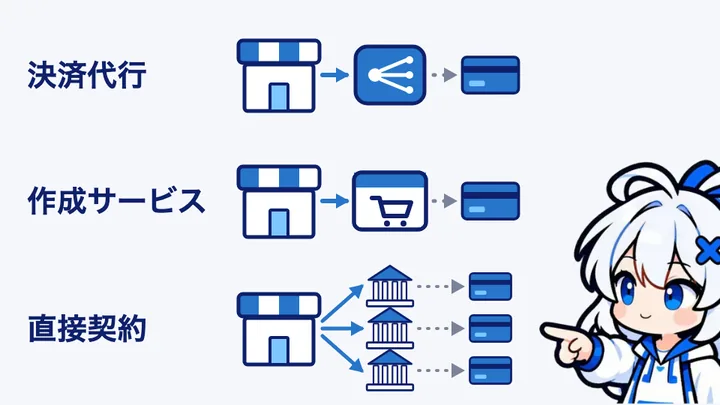
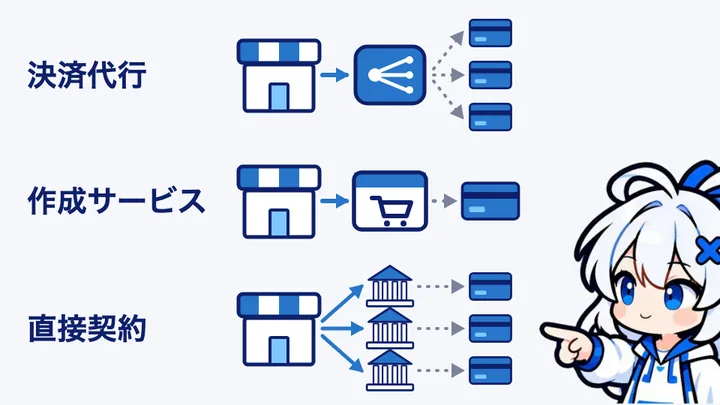
fix(learn): 図の説明の言い過ぎを直し、決済代行の図を 1 契約から 3 ブランドへ枝分かれにする

Changed region(s): [[0.5806, 0.0296, 0.7333, 0.3259]]

diff --git a/learn/chargeback/index.html b/learn/chargeback/index.html
@@ -275,9 +275,9 @@
               <picture>
                 <source type="image/webp" srcset="/assets/learn/chargeback/compare.webp" media="(prefers-reduced-motion: no-preference)" />
                 <source type="image/webp" srcset="/assets/learn/chargeback/compare-still.webp" />
-                <img src="/assets/learn/chargeback/compare.gif" width="720" height="405" alt="カードのチャージバックと、ステーブルコイン決済の違いの図。カードでは、購入者の申し立て（紙の印）で、売上がお店から購入者へ戻ります。ステーブルコイン決済では、確定した送金は取り消せない（錠前の印）ので、申し立てでは戻らず、返金は、お店から購入者へ送り返す形になります。すてぶるちゃんが図を指さしています。" loading="lazy" decoding="async" />
+                <img src="/assets/learn/chargeback/compare.gif" width="720" height="405" alt="カードのチャージバックと、ステーブルコイン決済の違いの図。カードでは、購入者の申し立てが認められると（紙の印）、売上がお店から購入者へ戻ります。ステーブルコイン決済では、確定した送金は取り消せない（錠前の印）ので、申し立てが認められても戻らず、返金は、お店から購入者へ送り返す形になります。すてぶるちゃんが図を指さしています。" loading="lazy" decoding="async" />
               </picture>
-              <figcaption>カードでは申し立てで売上が戻りますが、ステーブルコイン決済では、確定した送金は取り消せません。返金は、お店から送り返します。</figcaption>
+              <figcaption>カードでは申し立てが認められると売上が戻りますが、ステーブルコイン決済では、確定した送金は取り消せません。返金は、お店から送り返します。</figcaption>
             </figure>
             <p>ただし、返品や返金のトラブルがなくなるわけではありません。商品が届かない、注文と違う、といった不満は、カード以外の決済でも起きます。ステーブルコイン決済では、返金は、お店から購入者へ送り返す形になります。返金の条件を決めて、購入者に先に案内しておきましょう。通信販売では、広告に返品の特約を表示していないと、商品を受け取った日から 8 日以内なら、購入者は送料を負担して返品できます。ネットショップでは、返品の特約を注文の最終確認の画面にも表示します<sup class="fn"><a href="#src-5">[5]</a></sup>。</p>
 

diff --git a/learn/what-is-stablecoin/index.html b/learn/what-is-stablecoin/index.html
@@ -221,9 +221,9 @@
               <picture>
                 <source type="image/webp" srcset="/assets/learn/what-is-stablecoin/backing.webp" media="(prefers-reduced-motion: no-preference)" />
                 <source type="image/webp" srcset="/assets/learn/what-is-stablecoin/backing-still.webp" />
-                <img src="/assets/learn/what-is-stablecoin/backing.gif" width="720" height="405" alt="ステーブルコインの価値を保つ仕組みの図。持ち主が日本円を発行体に渡すと、発行体はその分を裏付けの箱に入れ、ステーブルコインを持ち主に渡します。持ち主が払い戻しを求めると、ステーブルコインが発行体に戻り、裏付けの箱から日本円が持ち主に払い戻されます。すてぶるちゃんが手のひらで図を示し、すてぶるくんがお金の動きを目で追っています。" loading="lazy" decoding="async" />
+                <img src="/assets/learn/what-is-stablecoin/backing.gif" width="720" height="405" alt="ステーブルコインの価値を保つ仕組みの図（法定通貨担保型の代表的な例）。持ち主が日本円を発行体に渡すと、発行体はその分を裏付けの箱に入れ、ステーブルコインを持ち主に渡します。持ち主が払い戻しを求めると、ステーブルコインが発行体に戻り、裏付けの箱から日本円が持ち主に払い戻されます。すてぶるちゃんが手のひらで図を示し、すてぶるくんがお金の動きを目で追っています。" loading="lazy" decoding="async" />
               </picture>
-              <figcaption>発行体は、受け取った円に見合う資産を裏付けとして持ちます。持ち主が求めたら、額面どおりに払い戻します。</figcaption>
+              <figcaption>法定通貨担保型の代表的な例です。発行体は、受け取った円に見合う資産を裏付けとして持ちます。持ち主が求めたら、額面どおりに払い戻します。</figcaption>
             </figure>
             <p>一般に、「額面で払い戻してもらえる」と市場が受け止めるほど、市場での価格は額面に近づきます。反対に、裏付けや払い戻しに疑いが出ると、価格は額面から離れます。このため、ステーブルコインの価値は、発行体や裏付け資産への信頼に左右されます。</p>
 

diff --git a/learn/glossary/index.html b/learn/glossary/index.html
@@ -399,9 +399,9 @@
               <picture>
                 <source type="image/webp" srcset="/assets/learn/glossary/relations.webp" media="(prefers-reduced-motion: no-preference)" />
                 <source type="image/webp" srcset="/assets/learn/glossary/relations-still.webp" />
-                <img src="/assets/learn/glossary/relations.gif" width="720" height="405" alt="ステーブルコインの発行・ウォレット・ブロックチェーンの関係の図。発行体が発行したステーブルコインが、ウォレットに入ります。ブロックチェーンの上で別のウォレットへ送ると、記録が確定します（チェックの印）。発行体に戻すと、日本円に払い戻されます。すてぶるちゃんが手のひらで図を示し、すてぶるくんがお金の動きを目で追っています。" loading="lazy" decoding="async" />
+                <img src="/assets/learn/glossary/relations.gif" width="720" height="405" alt="ステーブルコインの発行・ウォレット・ブロックチェーンの関係の図（JPYC の例）。発行体が発行したステーブルコインが、ウォレットに入ります。ブロックチェーンの上で別のウォレットへ送ると、記録が確定します（チェックの印）。発行体に戻すと、日本円に払い戻されます。すてぶるちゃんが手のひらで図を示し、すてぶるくんがお金の動きを目で追っています。" loading="lazy" decoding="async" />
               </picture>
-              <figcaption>ステーブルコインは、ウォレットに入り、ブロックチェーンの上で送られます。払い戻しは、発行体で日本円にします。</figcaption>
+              <figcaption>ステーブルコインは、ウォレットに入り、ブロックチェーンの上で送られます。JPYC の例では、払い戻しは、発行体で日本円にします。</figcaption>
             </figure>
             <h2 id="non-custodial">ノンカストディアル</h2>
             <p>サービスの提供元が、利用者の資金や秘密鍵（送金を承認するための情報）を預からない設計のことです。すてぶるペイの提供元の暗号屋は、購入者やお店の資金・秘密鍵を預かりません。</p>

diff --git a/learn/jpyc-payments/index.html b/learn/jpyc-payments/index.html
@@ -232,9 +232,9 @@
               <picture>
                 <source type="image/webp" srcset="/assets/learn/jpyc-payments/ways.webp" media="(prefers-reduced-motion: no-preference)" />
                 <source type="image/webp" srcset="/assets/learn/jpyc-payments/ways-still.webp" />
-                <img src="/assets/learn/jpyc-payments/ways.gif" width="720" height="405" alt="JPYC の受け取り方 2 つの図。自分で受ける方法では、購入者がお店に JPYC を送り、お店が送金と注文を自分で突き合わせます（虫めがねの印）。決済サービスを使う方法でも、お店は JPYC で受け取ります。サービスが決済の状態を管理し、結果をお店に知らせます（点線とチェックの印）。すてぶるちゃんが図を指さしています。" loading="lazy" decoding="async" />
+                <img src="/assets/learn/jpyc-payments/ways.gif" width="720" height="405" alt="JPYC の受け取り方 2 つの図。自分で受ける方法では、購入者がお店に JPYC を送り、お店が送金と注文を自分で突き合わせます（虫めがねの印）。決済サービスを使う方法（お店が直接 JPYC を受け取る形のサービスの例）でも、お店は JPYC で受け取ります。サービスが決済の状態を管理し、結果をお店に知らせます（点線とチェックの印）。すてぶるちゃんが図を指さしています。" loading="lazy" decoding="async" />
               </picture>
-              <figcaption>自分で受ける方法では、送金と注文の突き合わせをお店がします。決済サービスを使うと、サービスが決済の状態を管理して、結果を知らせます。</figcaption>
+              <figcaption>自分で受ける方法では、送金と注文の突き合わせをお店がします。お店が直接 JPYC を受け取る形の決済サービスなら、サービスが決済の状態を管理して、結果を知らせます。</figcaption>
             </figure>
             <table class="learn-table">
               <caption>JPYC の受け取り方の違い</caption>

diff --git a/learn/card-expression-restrictions/index.html b/learn/card-expression-restrictions/index.html
@@ -196,7 +196,7 @@
                 <source type="image/webp" srcset="/assets/learn/card-expression-restrictions/spread-still.webp" />
                 <img src="/assets/learn/card-expression-restrictions/spread.gif" width="720" height="405" alt="決済手段を並べる図。カード、銀行振込、ステーブルコイン決済の 3 つが、お店につながっています。カードが止まっても（止まった印）、銀行振込とステーブルコイン決済で、お店は受け取れます（確認の印）。ステーブルコイン決済にも、提供元の規約による停止の可能性があります。すてぶるちゃんが手のひらで図を示しています。" loading="lazy" decoding="async" />
               </picture>
-              <figcaption>カードが止まっても、銀行振込やステーブルコイン決済も並べておけば、売り場は閉じません。ステーブルコイン決済にも、提供元の規約による停止の可能性はあります。</figcaption>
+              <figcaption>カードが止まっても、銀行振込やステーブルコイン決済も並べておけば、販売を続けられるよう備えます。ステーブルコイン決済にも、提供元の規約による停止の可能性はあります。</figcaption>
             </figure>
             <p>銀行振込は入金の確認の手間があり、コンビニ払いは決済代行会社などとの契約が要るなど、どの手段にも条件があります。向き不向きを見て組み合わせてください。</p>
             <p>たとえば、同人誌の通販のように、注文のたびに発送の作業がある販売では、入金を確認してから発送する銀行振込でも運用しやすいでしょう。ダウンロード販売のように、支払いのあとすぐに商品を渡したい販売では、入金の確認を待つ手段は向きにくく、すぐに支払いが済む手段を一つは用意したいところです。自分の販売の形に合わせて、並べる手段を選んでください。</p>

diff --git a/scripts/figures/accept-credit-cards/methods.js b/scripts/figures/accept-credit-cards/methods.js
@@ -43,9 +43,13 @@ FX.figure({
       if (i < 2) {
         // 契約先は 1 つ。そこから複数のカードブランドへ
         at(ctx, MID_X, y, pop(0.15), pop(0.15), () => (i === 0 ? psp() : service()));
-        at(ctx, CARD_X, y, pop(0.3) * 0.75, pop(0.3), () => ICON.card(ctx));
         arrow(ctx, [SHOP_X + 58, y], [MID_X - 58, y], track(t, s0 + 0.7, HEAVY), { color: C.blue, width: 6 });
-        arrow(ctx, [MID_X + 58, y], [CARD_X - 48, y], track(t, s0 + 1.3, HEAVY), { color: C.gray, width: 5, dash: [2, 12] });
+        // 決済代行は 1 つの契約から 3 枚のカード（ブランド）へ枝分かれ。作成サービスは今までどおり 1 枚
+        (i === 0 ? [-1, 0, 1] : [0]).forEach((k, j) => {
+          const yy = y + k * 56, sc = i === 0 ? 0.55 : 0.75;
+          at(ctx, CARD_X, yy, pop(0.3 + j * 0.1) * sc, pop(0.3 + j * 0.1), () => ICON.card(ctx));
+          arrow(ctx, [MID_X + 58, y + k * 8], [CARD_X - (i === 0 ? 38 : 48), yy], track(t, s0 + 1.3 + j * 0.2, HEAVY), { color: C.gray, width: i === 0 ? 4 : 5, dash: [2, i === 0 ? 10 : 12] });
+        });
       } else {
         // 直接契約：ブランドごとにカード会社と契約する（3 本の線）
         [-1, 0, 1].forEach((k, j) => {
